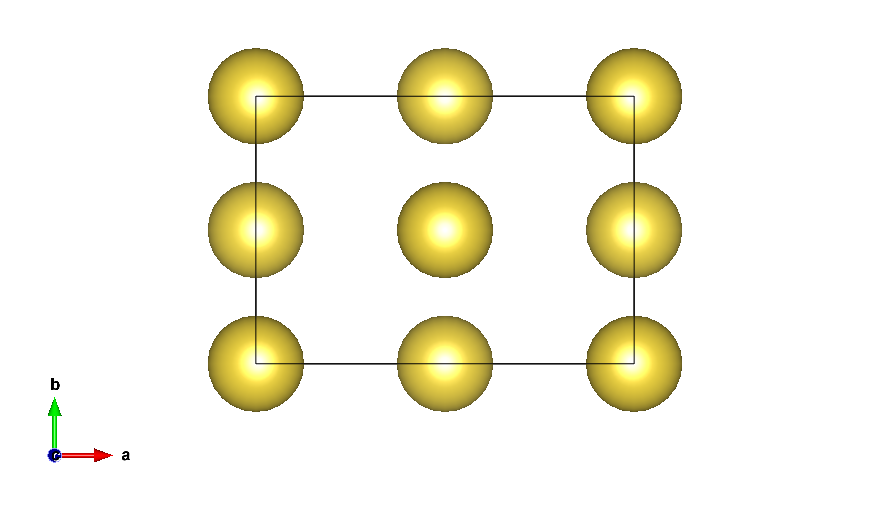
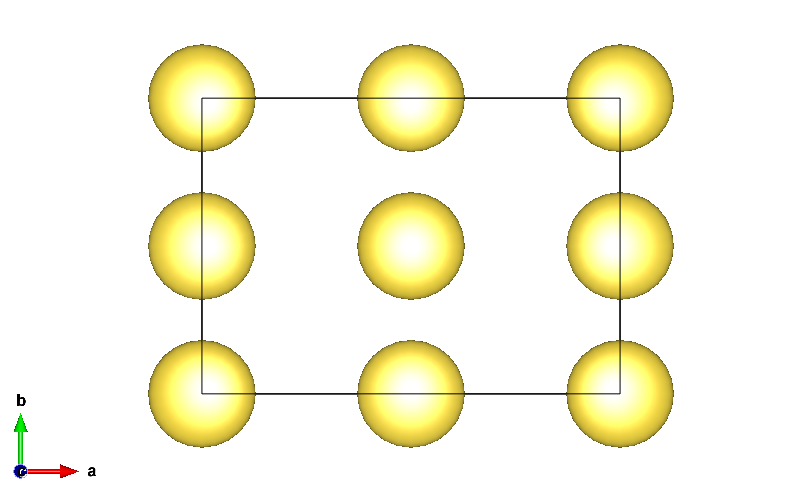
update task5

Changed region(s): [[0.183, 0.09, 0.8539, 0.9], [0.6404, 0.33, 0.8539, 0.6], [0.0, 0.78, 0.1525, 0.96]]

diff --git a/A3/scripts/task5_surface_model.py b/A3/scripts/task5_surface_model.py
@@ -1,33 +1,23 @@
 # Import necessary modules from ASE
+import os
 from ase.build import bulk, surface
 from ase.visualize import view
 
-# Generate bulk sodium (Na) structure with bcc lattice
-# Parameters:
-#   'Na': Element symbol
-#   'bcc': Crystal structure (body-centered cubic)
-#   a=4.23: Lattice constant in Angstroms (experimental value for Na)
-#   cubic=True: Force cubic unit cell
-na_bulk = bulk('Na', 'bcc', a=4.23, cubic=True)
+os.makedirs("A3", exist_ok=True)
 
-# Create (100) surface slab
-# surface() parameters:
-#   na_bulk: Bulk structure template
-#   (1,0,0): Miller indices for (100) surface
-#   layers=5: Number of atomic layers
-na_100 = surface(na_bulk, (1, 0, 0), layers=5)
-# Add 10 Angstrom vacuum layer along z-axis (axis=2)
-na_100.center(vacuum=10, axis=2)
+na_bulk = bulk('Na', 'bcc', a=4.1932, cubic=True)
 
-# Create (111) surface slab
-na_111 = surface(na_bulk, (1, 1, 1), layers=5)
-na_111.center(vacuum=10, axis=2)
+surfaces = {
+    "100": (1, 0, 0, 10),
+    "110": (1, 1, 0, 11),
+    "111": (1, 1, 1, 11),
+}
 
-# Create (110) surface slab
-na_110 = surface(na_bulk, (1, 1, 0), layers=5)
-na_110.center(vacuum=10, axis=2)
+for name, (h, k, l, layers) in surfaces.items():
+    slab = surface(na_bulk, (h, k, l), layers=layers)
+    slab.center(vacuum=25, axis=2)  # add vacuum to the top and bottom of the slab
+    filename = f"A3/task5_Na_{name}.cif"
+    slab.write(filename) 
+    print(f"Saved {filename}")
 
-# Save structures to CIF files (optional)
-na_100.write('./A3/task5_Na_100.cif')
-na_111.write('./A3/task5_Na_111.cif')
-na_110.write('./A3/task5_Na_110.cif')
+
